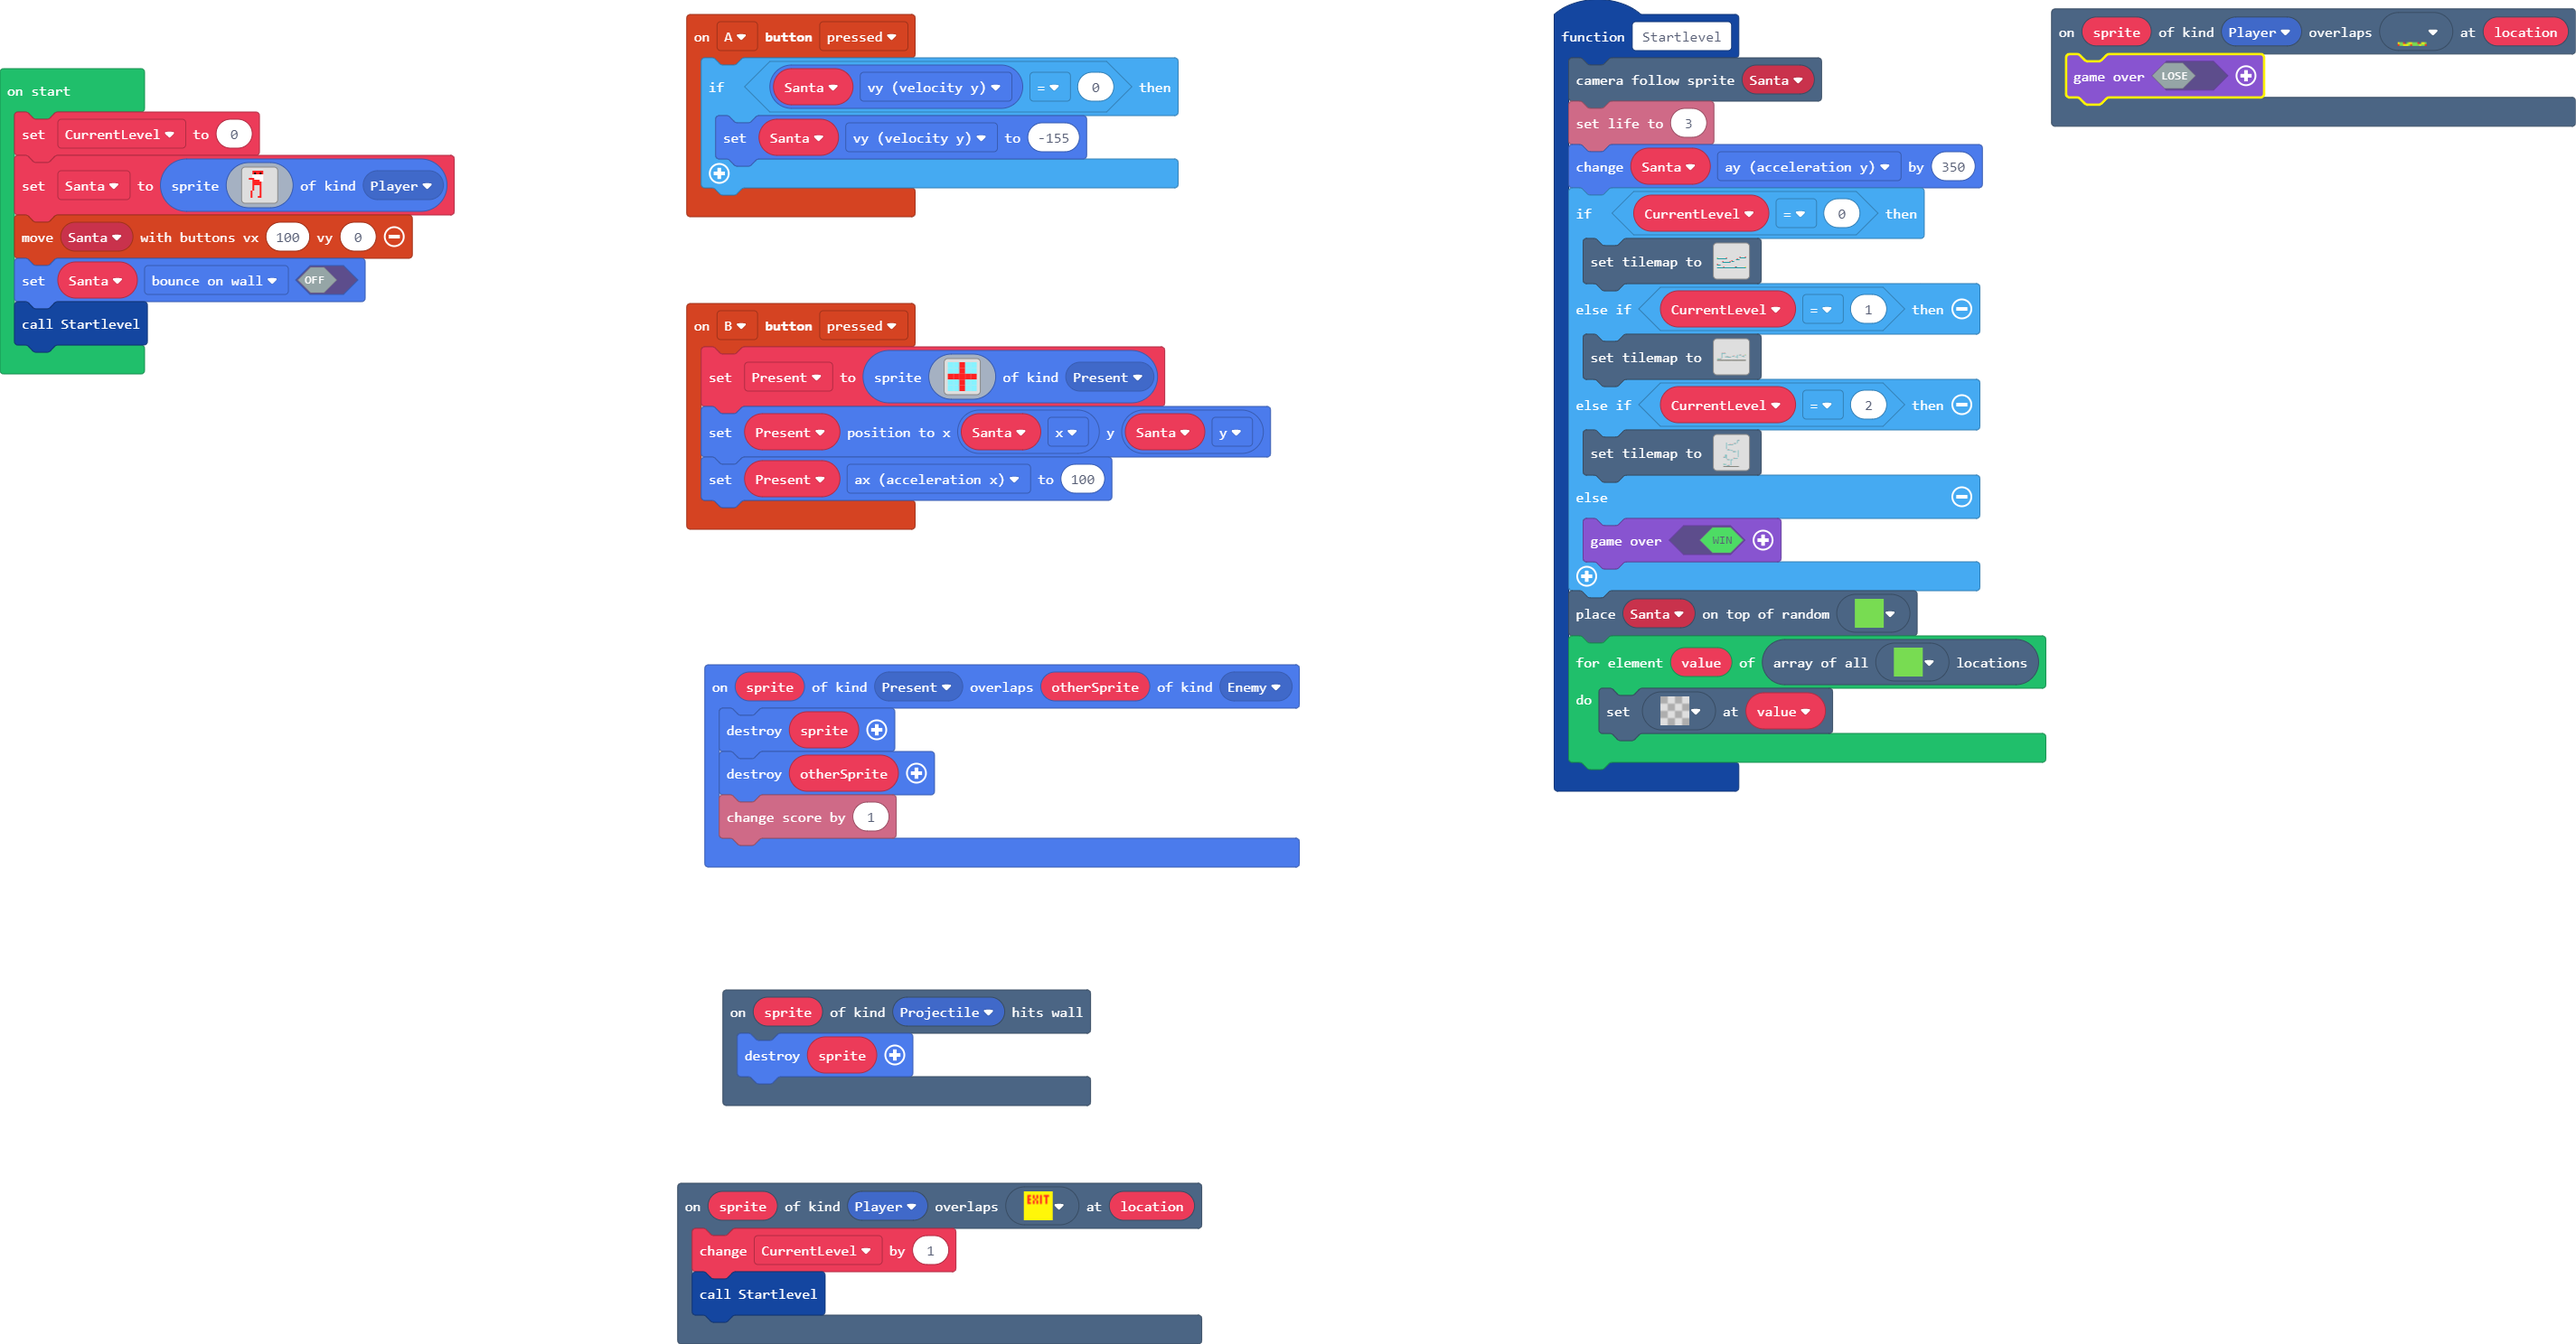
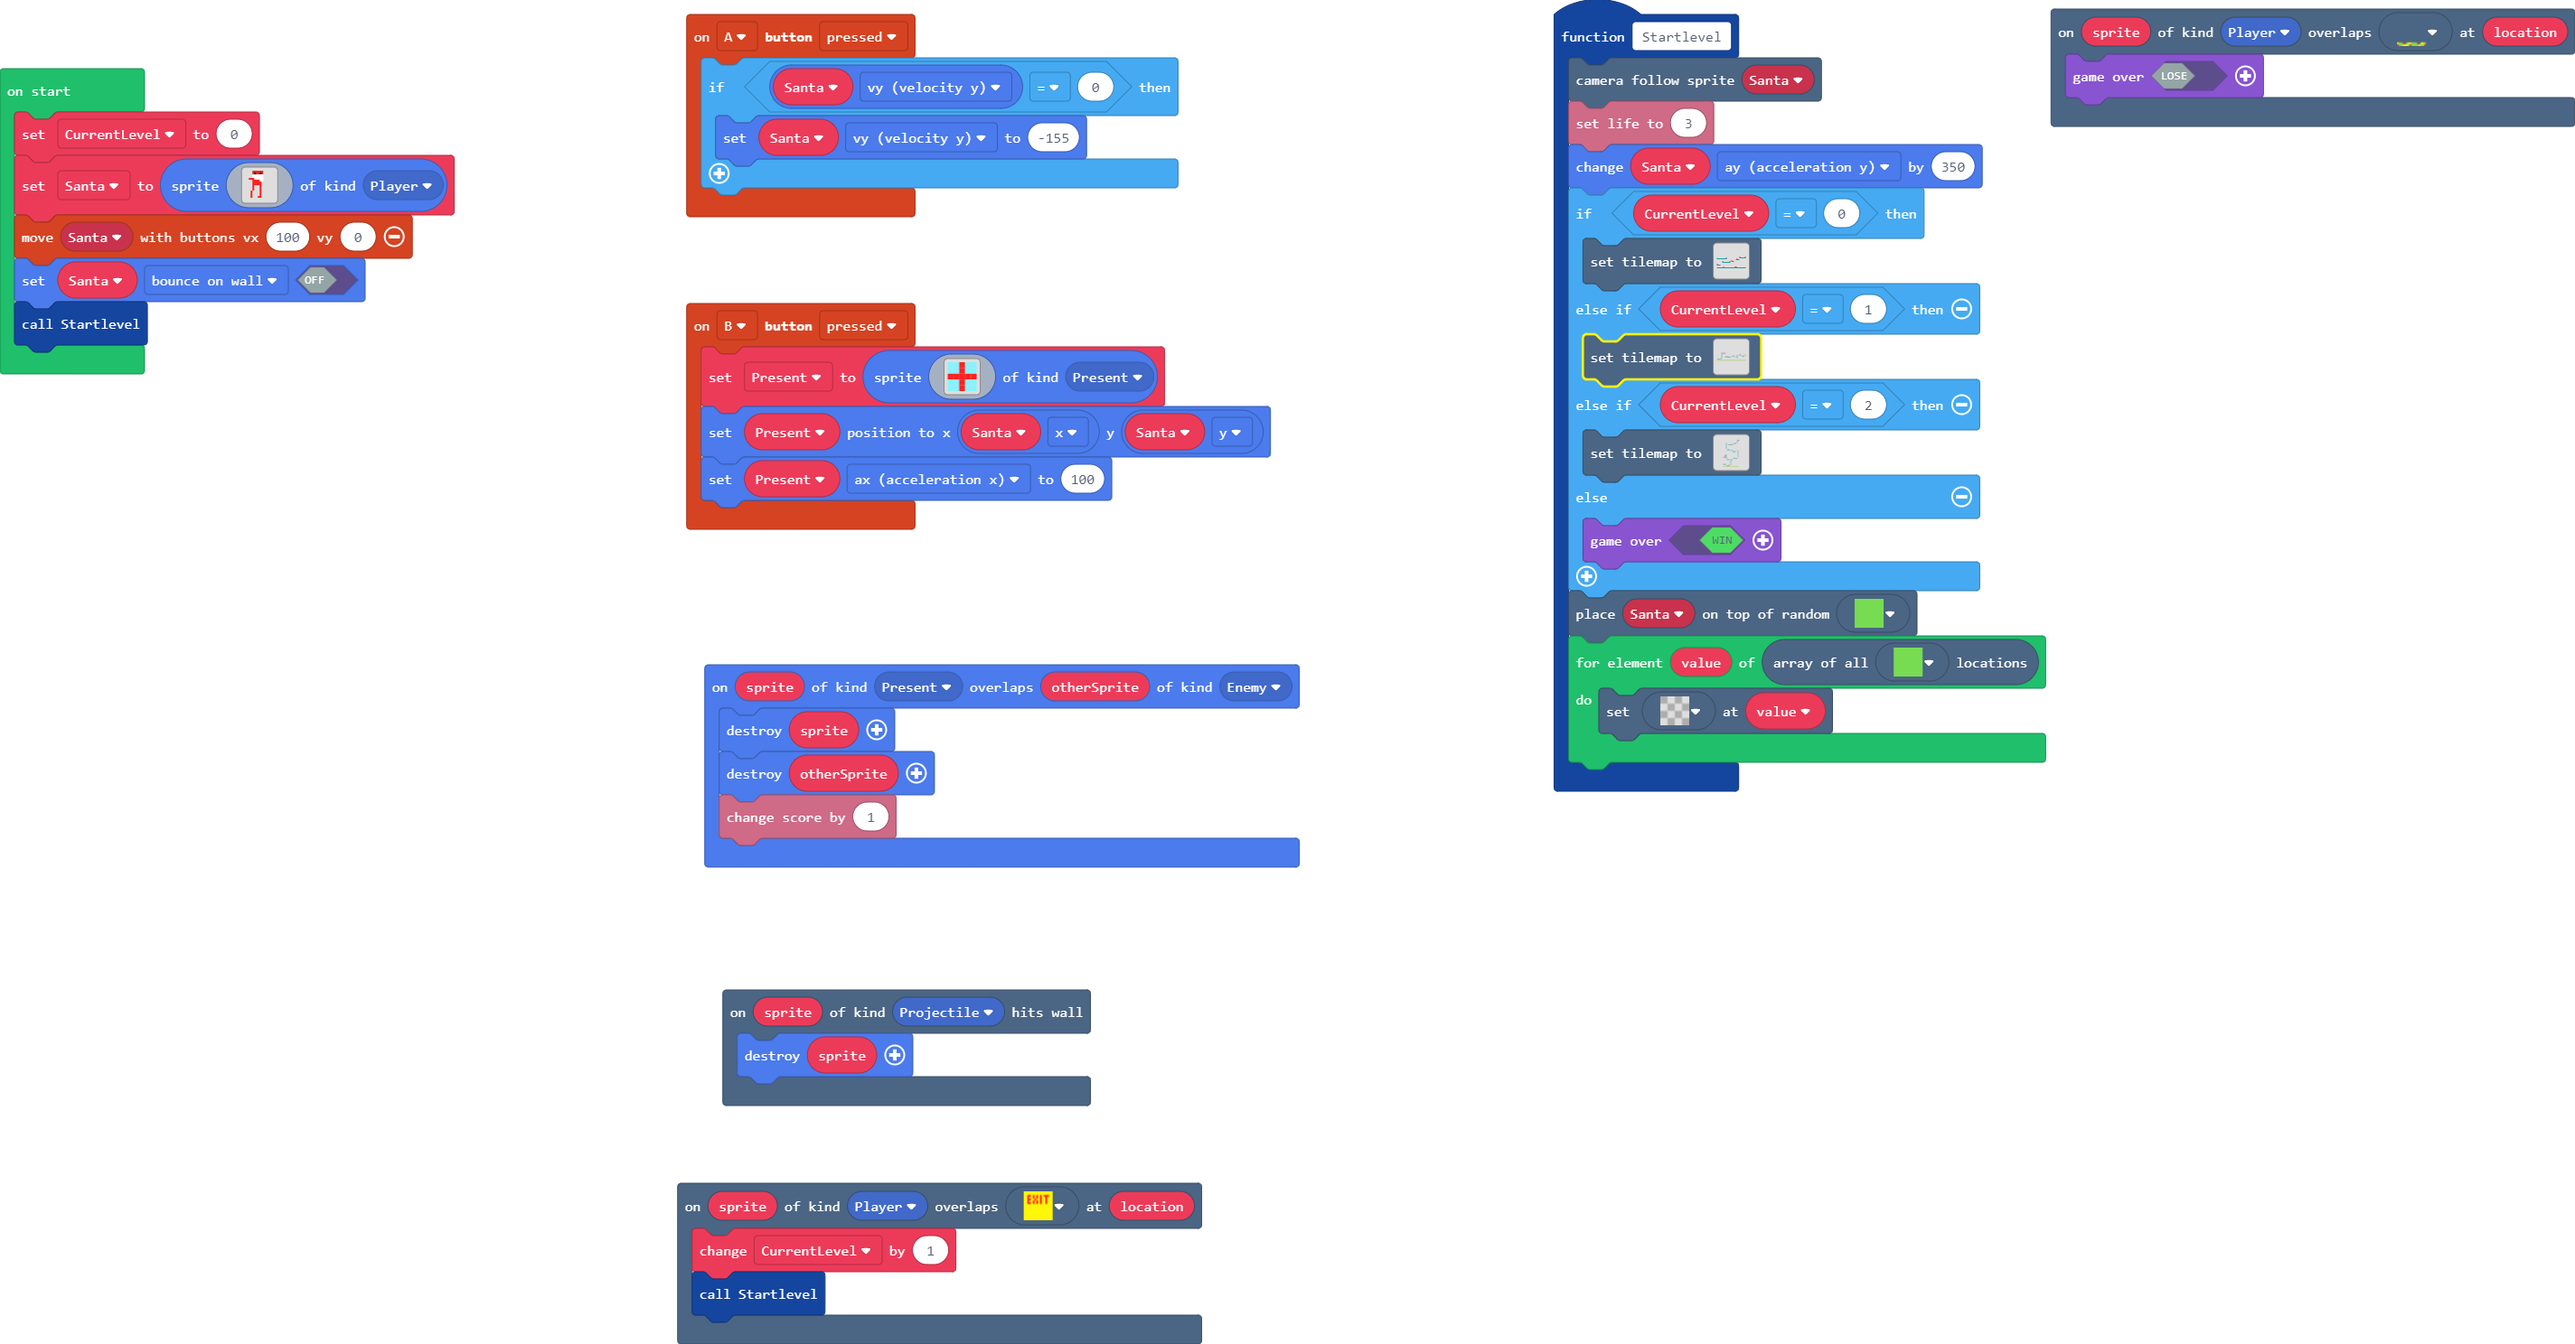
Update main.blocks, main.ts

diff --git a/main.ts b/main.ts
@@ -118,22 +118,22 @@ namespace myTiles {
 `
     //% blockIdentity=images._tile
     export const tile6 = img`
-. . . . . . . . . . . . . . . . 
-. . . . . . . . . . . . . . . . 
-. . . . . . . . . . . . . . . . 
-. . . . . . . . . . . . . . . . 
-. . . . . . . . . . . . . . . . 
-. . . . . . . . . . . . . . . . 
-. . . . . . . . . . . . . . . . 
-. . . . . . . . . . . . . . . . 
-. . . . . . . . . . . . . . . . 
-. . . . . . . . . . . . . . . . 
-. . . . . . . . . . . . . . . . 
-. . . . . . . . . . . . . . . . 
-. . . . . . . . . . . . . . . . 
-. . . . . . . . . . . . . . . . 
 5 7 7 2 . 7 5 5 7 7 7 2 . 5 5 7 
 2 7 7 5 5 5 7 2 7 7 7 7 5 7 7 2 
+7 5 5 7 7 7 7 7 7 7 7 7 7 4 4 7 
+5 2 4 4 4 4 4 4 7 7 4 2 2 7 7 7 
+7 7 7 7 7 4 2 7 7 7 7 5 5 4 7 7 
+7 7 7 7 7 7 7 7 7 7 7 7 7 7 4 4 
+2 7 7 2 2 5 7 7 7 7 7 7 7 5 5 5 
+4 4 4 7 7 7 7 7 7 7 7 7 7 4 4 5 
+7 7 7 7 7 7 7 7 7 7 7 7 7 7 7 4 
+5 7 7 7 7 7 7 7 7 7 7 7 7 7 7 2 
+7 7 7 7 7 7 7 7 7 7 7 7 7 7 7 7 
+7 7 7 7 7 7 7 7 7 7 7 7 7 7 7 7 
+2 2 7 7 7 7 7 7 7 7 7 5 5 5 4 7 
+7 7 7 7 7 7 7 2 7 7 7 7 7 7 7 7 
+7 7 7 7 7 7 7 7 7 7 7 7 7 7 7 7 
+7 7 7 5 2 2 7 7 7 7 7 7 5 5 2 2 
 `
 }
 controller.B.onEvent(ControllerButtonEvent.Pressed, function () {
